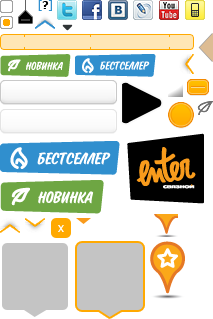
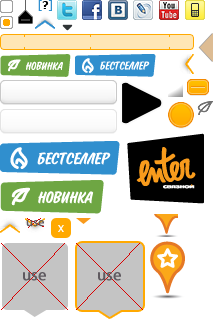
Лайтбокс выделен в отдельный модуль, для него сделан спрайт. Пережаты иконки соц.сетей. Начал расформирование больших спрайтов.

diff --git a/web/css/skin/old_inner.css b/web/css/skin/old_inner.css
@@ -1043,7 +1043,7 @@ border-radius:5px;
 box-shadow:0 0 7px #616161;
 }
 .popupbox {padding:20px 20px 30px 20px}
-.popup  .close {position:absolute; top:0px; right:0px; /*right:-2px;*/ display:block;  width:26px; height:26px; background:url(/css/common/img/bg_inner.png) no-repeat -46px -179px; text-indent:-10000px; cursor:pointer; font-size:0; line-height:0;}
+.popup  .close {position:absolute; top:0px; right:0px; /*right:-2px;*/ display:block;  width:26px; height:26px; background:url(/css/common/img/closeBtnOrange.png) no-repeat 0 0; text-indent:-10000px; cursor:pointer; font-size:0; line-height:0;}
 .pouptitle {float:left; width:560px; margin:0; font-size:30px; font-family:"Enter"; text-transform:uppercase}
 
 
@@ -1177,50 +1177,9 @@ border-radius: 5px;
 .shareline a:hover {color:#404040}
 
 .graying {width:100%; height:100%; position:fixed; z-index:99; top:0; left:0; right:0; botom:0; background:#000; opacity:0.5; filter: progid:DXImageTransform.Microsoft.Alpha(opacity=50);}
-.lightbox {width:100%; height:41px; position: fixed; bottom:0; left:0; z-index:100}
-.lightboxinner {width:926px; height:40px; padding-top:1px; position:relative; margin:0 auto; background:url(/css/skin/img/bg_lightbox.png) no-repeat 0 0}
-.lightboxmenu {float:left; width:923px}
-.lightboxmenu li{float:right; background:url(/css/skin/img/lightboxmenu_icons.png) no-repeat 0 -400px; padding-left:1px}
-.lightboxmenu li.fl {float:left; background:none; padding-left:0}
-.lightboxmenu li a.point {float:left; display:block; height:29px; padding:11px 20px 0 20px; font-size:14px; color:#fff; text-decoration:none}
-.lightboxmenu li a.orangeme{color:#ffa901}
-/*.lightboxmenu li a.point2 {font-weight:bold} TMP */
-.lightboxmenu li a.point5 {padding:11px 0 0 20px}
-.lightboxmenu li a.point:hover {color:#ffa901; background:url(/css/skin/img/bg_lightbox.png) no-repeat; background-position:-10px -46px}
-.lightboxmenu li a.point1:hover, .lightboxmenu li a.point6:hover {background-position:-3px -46px}
-.lightboxmenu li a.point2:hover {background-position:100% -46px}
-.lightboxmenu li a.point5:hover {background:none}
-.lightboxmenu li a.point b{float:left; display:block; height:19px; padding-left:23px; margin-right:10px; background:url(/css/skin/img/lightboxmenu_icons.png) no-repeat; font-size:9px; line-height:9px}
-.lightboxmenu li a.point1 b{background-position:0 -150px}
-.lightboxmenu li a.point1:hover b{background-position:0 -350px}
-.lightboxmenu li a.point2 B {background-position:0 -100px}
-.lightboxmenu li a.point2:hover b{background-position:0 -300px}
-.lightboxmenu li a.point2.orangeme b{background-position:0 -300px}
-.lightboxmenu li a.point3 b{background-position:0 -50px}
-.lightboxmenu li a.point3:hover b{background-position:0 -250px}
-.lightboxmenu li a.point4 b{background-position:0 0}
-.lightboxmenu li a.point4:hover b{background-position:0 -200px}
-.lightboxmenu li a.point5 b{width:25px; height:23px; padding:0; margin-top:-3px; background-position:0 -550px}
-.lightboxmenu li a.point6 b{background-position:0 -450px}
-.lightboxmenu li a.point6:hover b{background-position:0 -500px}
-.lightboxmenu li a.point .total {font-weight:normal; font-size:12px; margin-left:10px; color:#ffa901}
-
-.flybox {display:none; position:absolute; bottom:41px; z-index:101;  padding:15px 20px 20px 20px; font-weight:normal; cursor:auto; background-color:#fff; border:2px solid #ffa901;
-border-radius:5px;
--moz-border-radius:5px;
--webkit-border-radius:5px;
--moz-box-shadow:0 0 9px #616161;
--webkit-box-shadow:0 0 9px #616161;
-box-shadow:0 0 9px #616161;
-}
-.flybox .corner {position:absolute; display:block; font-size:0; line-height:0; bottom:-15px; /*bottom:-14px;*/ left:50%; margin-left:-10px; width:20px; height:15px; background:url(/css/common/img/bg.png) no-repeat -25px -218px}
-.flybox .close {position:absolute; top:0px; right:0px; /*right:-2px;*/ display:block;  width:26px; height:26px; background:url(/css/common/img/bg_inner.png) no-repeat -46px -179px; text-indent:-10000px; cursor:pointer; font-size:0; line-height:0;}
 
 .dragbox {width:100%; height:100%; position:fixed; z-index:101; top:0; left:0; right:0; bottom:41px}
 .dragbox div{position:absolute; z-index:102; width:60px; height:60px; background-color:#fff; cursor:pointer}
-.dropbox {position:absolute; bottom:44px; z-index:101; width:70px; height:73px; padding-top:5px; background:url/css/common/img/bg.png) no-repeat 0 -241px; color:#fff; font-size:10px; text-align:center}
-.dropbox.active {background-position:-75px -241px; color:#ffa901}
-.dropbox p{margin:0; padding-top:18px}
 
 .comparisonblock {float:left; width: 644px;  overflow:hidden; background:url(/css/skin/img/bg_comparisonblock.gif) repeat-y 140px 0}
 .comparisonblock li{float:left; width:120px; margin-right:41px; overflow:hidden}
@@ -2847,7 +2806,7 @@ dt.bCtg__eOrange{
 	height: 26px;
 	cursor: pointer;
 	position: absolute;
-	background:url(/css/common/img/bg_inner.png) no-repeat -46px -179px;
+	background:url(/css/common/img/closeBtnOrange.png) no-repeat 0 0;
 }
 .bMobDown__eClose.top0{
     top: 0;

diff --git a/web/css/global.css b/web/css/global.css
@@ -1345,6 +1345,159 @@ a[title="vkontakte"] {
   background: url('/css/common/img/socIcons.png') no-repeat -52px -26px;
 }
 /*---END---СТИЛИ ФУТЕРА---*/
+/*-----СТИЛИ ЛАЙТБОКСА-----*/
+.lightbox {
+  bottom: 0px;
+  height: 41px;
+  left: 0px;
+  position: fixed;
+  width: 100%;
+  z-index: 100;
+}
+.lightboxinner {
+  background: url("/css/lightbox/img/lightboxSprite.png") no-repeat 0px -200px;
+  height: 40px;
+  margin: 0px auto;
+  padding-top: 1px;
+  position: relative;
+  width: 926px;
+}
+.lightboxmenu {
+  float: left;
+  width: 923px;
+}
+.lightboxmenu li {
+  background: url("/css/lightbox/img/lightboxSprite.png") no-repeat 0px 0px;
+  float: right;
+  padding-left: 1px;
+}
+.lightboxmenu li.fl {
+  background: none;
+  float: left;
+  padding-left: 0px;
+}
+.lightboxmenu li .point {
+  color: #fff;
+  display: block;
+  float: left;
+  font-size: 14px;
+  height: 29px;
+  padding: 11px 20px 0px;
+  text-decoration: none;
+}
+.lightboxmenu li .point:hover {
+  /*background-position: -10px -46px;*/
+
+  background: url("/css/lightbox/img/lightboxSprite.png") no-repeat;
+  color: #ffa901;
+}
+.lightboxmenu li .point .total {
+  color: #ffa901;
+  font-size: 12px;
+  font-weight: normal;
+  margin-left: 10px;
+}
+.lightboxmenu li .point b {
+  background: url("/css/lightbox/img/lightboxSprite.png") no-repeat;
+  display: block;
+  float: left;
+  font-size: 9px;
+  height: 19px;
+  line-height: 9px;
+  margin-right: 10px;
+  padding-left: 23px;
+}
+.lightboxmenu li .point1 b {
+  background-position: 0px -40px;
+}
+.lightboxmenu li .point1:hover {
+  background-position: -3px -246px;
+}
+.lightboxmenu li .point1:hover b {
+  background-position: 0px -80px;
+}
+.lightboxmenu li .point2 b {
+  background-position: 0px -120px;
+}
+.lightboxmenu li .point2:hover {
+  background-position: 100% -246px;
+}
+.lightboxmenu li .point2:hover b {
+  background-position: 0px -160px;
+}
+.lightboxmenu li .point2.orangeme b {
+  background-position: 0 -160px;
+}
+.lightboxmenu li .orangeme {
+  color: #ffa901;
+}
+.flybox {
+  -moz-border-radius: 5px;
+  -moz-box-shadow: 0px 0px 9px #616161;
+  -webkit-border-radius: 5px;
+  -webkit-box-shadow: 0px 0px 9px #616161;
+  background-color: #fff;
+  border-radius: 5px;
+  border: 2px solid #ffa901;
+  bottom: 41px;
+  box-shadow: 0px 0px 9px #616161;
+  cursor: auto;
+  display: none;
+  font-weight: normal;
+  padding: 15px 20px 20px;
+  position: absolute;
+  z-index: 101;
+}
+.flybox .corner {
+  /* bottom: -14px;*/
+
+  background: url("/css/lightbox/img/lightboxSprite.png") no-repeat -906px -80px;
+  bottom: -15px;
+  display: block;
+  font-size: 0px;
+  height: 15px;
+  left: 50%;
+  line-height: 0px;
+  margin-left: -10px;
+  position: absolute;
+  width: 20px;
+}
+.flybox .close {
+  /* right: -2px;*/
+
+  background: url("/css/common/img/bg_inner.png") no-repeat -46px -179px;
+  cursor: pointer;
+  display: block;
+  font-size: 0px;
+  height: 26px;
+  line-height: 0px;
+  position: absolute;
+  right: 0px;
+  text-indent: -10000px;
+  top: 0px;
+  width: 26px;
+}
+.dropbox {
+  background: url("/css/lightbox/img/lightboxSprite.png") no-repeat -781px 0;
+  bottom: 44px;
+  color: #fff;
+  font-size: 10px;
+  height: 73px;
+  padding-top: 5px;
+  position: absolute;
+  text-align: center;
+  width: 70px;
+  z-index: 101;
+}
+.dropbox.active {
+  background-position: -856px 0;
+  color: #ffa901;
+}
+.dropbox p {
+  margin: 0px;
+  padding-top: 18px;
+}
+/*--END---СТИЛИ ЛАЙТБОКСА--*/
 /*------СТИЛИ ГЛАВНОЙ------*/
 #mainPage {
   background: #000;

diff --git a/web/css/lightbox/lightbox.less b/web/css/lightbox/lightbox.less
@@ -1,0 +1,154 @@
+.lightbox {
+  bottom: 0px;
+  height: 41px;
+  left: 0px;
+  position: fixed;
+  width: 100%;
+  z-index: 100;
+}
+.lightboxinner {
+  background: url("@{base-url}/lightbox/img/lightboxSprite.png") no-repeat 0px -200px;
+  height: 40px;
+  margin: 0px auto;
+  padding-top: 1px;
+  position: relative;
+  width: 926px;
+}
+.lightboxmenu {
+  float: left;
+  width: 923px;
+  li {
+    background: url("@{base-url}/lightbox/img/lightboxSprite.png") no-repeat 0px 0px;
+    float: right;
+    padding-left: 1px;
+    &.fl {
+      background: none;
+      float: left;
+      padding-left: 0px;
+    }
+    .point {
+      color: #fff;
+      display: block;
+      float: left;
+      font-size: 14px;
+      height: 29px;
+      padding: 11px 20px 0px;
+      text-decoration: none;
+      &:hover {
+        /*background-position: -10px -46px;*/
+        background: url("@{base-url}/lightbox/img/lightboxSprite.png") no-repeat;
+        color: #ffa901;
+      }
+      .total {
+        color: #ffa901;
+        font-size: 12px;
+        font-weight: normal;
+        margin-left: 10px;
+      }
+      b {
+        background: url("@{base-url}/lightbox/img/lightboxSprite.png") no-repeat;
+        display: block;
+        float: left;
+        font-size: 9px;
+        height: 19px;
+        line-height: 9px;
+        margin-right: 10px;
+        padding-left: 23px;
+      }
+    }
+    .point1{
+      b {
+        background-position: 0px -40px;
+      }
+      &:hover{
+        background-position: -3px -246px;
+        b {
+          background-position: 0px -80px;
+        }
+      }
+    }
+    .point2{
+      b {
+        background-position: 0px -120px;
+      }
+      &:hover{
+        background-position: 100% -246px;
+        b {
+          background-position: 0px -160px;
+        }
+      }
+      &.orangeme{
+        b{
+          background-position:0 -160px;
+        }
+      }
+    }
+    .orangeme{
+      color:#ffa901
+    }
+  }
+}
+.flybox {
+  -moz-border-radius: 5px;
+  -moz-box-shadow: 0px 0px 9px #616161;
+  -webkit-border-radius: 5px;
+  -webkit-box-shadow: 0px 0px 9px #616161;
+  background-color: #fff;
+  border-radius: 5px;
+  border: 2px solid #ffa901;
+  bottom: 41px;
+  box-shadow: 0px 0px 9px #616161;
+  cursor: auto;
+  display: none;
+  font-weight: normal;
+  padding: 15px 20px 20px;
+  position: absolute;
+  z-index: 101;
+  .corner {
+    /* bottom: -14px;*/
+    background: url("@{base-url}/lightbox/img/lightboxSprite.png") no-repeat -906px -80px;
+    bottom: -15px;
+    display: block;
+    font-size: 0px;
+    height: 15px;
+    left: 50%;
+    line-height: 0px;
+    margin-left: -10px;
+    position: absolute;
+    width: 20px;
+  }
+  .close {
+    /* right: -2px;*/
+    background: url("@{base-url}/common/img/closeBtnOrange.png") no-repeat 0 0;
+    cursor: pointer;
+    display: block;
+    font-size: 0px;
+    height: 26px;
+    line-height: 0px;
+    position: absolute;
+    right: 0px;
+    text-indent: -10000px;
+    top: 0px;
+    width: 26px;
+  }
+}
+.dropbox {
+  background: url("@{base-url}/lightbox/img/lightboxSprite.png") no-repeat -781px 0;
+  bottom: 44px;
+  color: #fff;
+  font-size: 10px;
+  height: 73px;
+  padding-top: 5px;
+  position: absolute;
+  text-align: center;
+  width: 70px;
+  z-index: 101;
+  &.active {
+    background-position: -856px 0;
+    color: #ffa901;
+  }
+  p {
+    margin: 0px;
+    padding-top: 18px;
+  }
+}

diff --git a/web/css/global.less b/web/css/global.less
@@ -24,6 +24,10 @@
 @import "footer/footer.less";
 /*---END---СТИЛИ ФУТЕРА---*/
 
+/*-----СТИЛИ ЛАЙТБОКСА-----*/
+@import "lightbox/lightbox.less";
+/*--END---СТИЛИ ЛАЙТБОКСА--*/
+
 /*------СТИЛИ ГЛАВНОЙ------*/
 @import "mainPage/mainPage.less";
 /*---END---СТИЛИ ГЛАВНОЙ---*/
